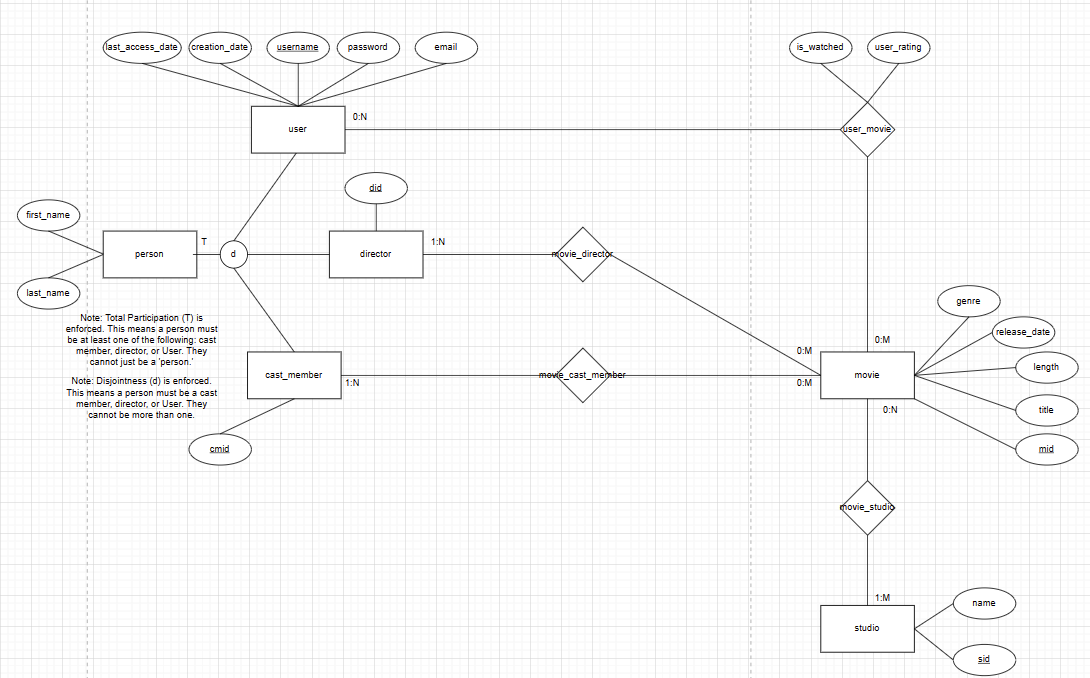
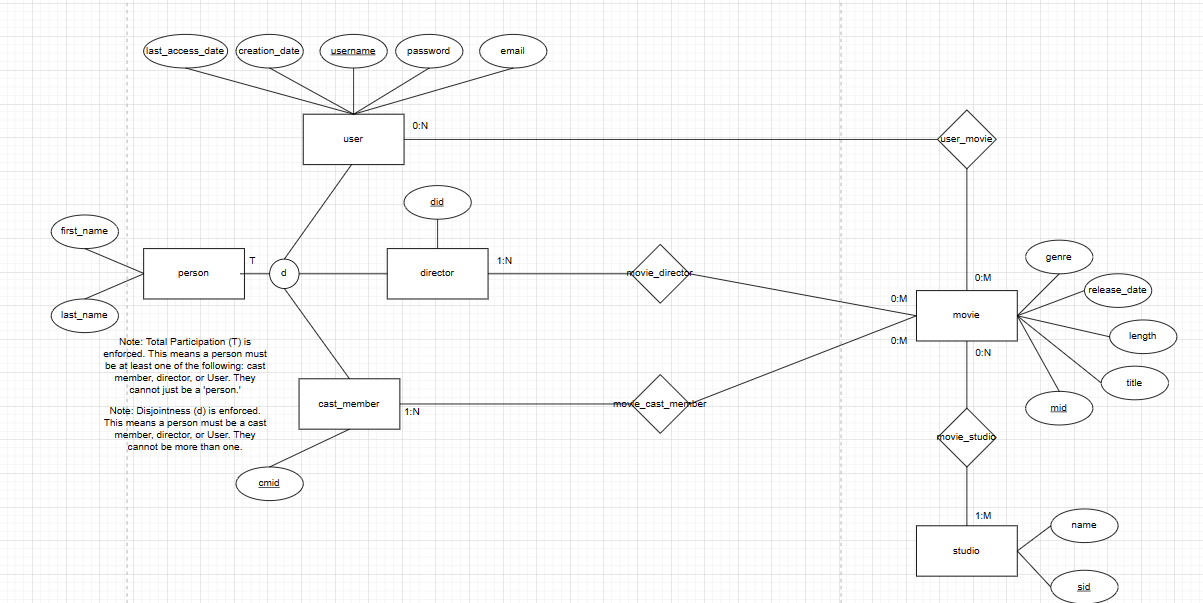
Added new EER and n to m between user and movie.

diff --git a/springboot-backend/src/main/java/com/Movie/MovieModel.java b/springboot-backend/src/main/java/com/Movie/MovieModel.java
@@ -4,6 +4,7 @@ package com.Movie;
 import com.CastMember.CastMemberModel;
 import com.Director.DirectorModel;
 import com.Studio.StudioModel;
+import com.User.UserModel;
 
 import javax.persistence.*;
 import java.util.Date;
@@ -57,6 +58,15 @@ public class MovieModel {
             inverseJoinColumns = {@JoinColumn(name = "sid")}
     )
     private Set<StudioModel> studioModels = new HashSet<>();
+
+    //N:M with User
+    @ManyToMany(fetch = FetchType.LAZY, cascade = CascadeType.ALL)
+    @JoinTable(
+            name = "user_movie",
+            joinColumns = {@JoinColumn(name = "mid")},
+            inverseJoinColumns = {@JoinColumn(name = "username")}
+    )
+    private Set<UserModel> userModels = new HashSet<>();
 
     @Id //pk
     @GeneratedValue(strategy = GenerationType.IDENTITY)
@@ -142,5 +152,13 @@ public class MovieModel {
 
     public void setStudioModels(Set<StudioModel> studioModels) {
         this.studioModels = studioModels;
+    }
+
+    public Set<UserModel> getUserModels() {
+        return userModels;
+    }
+
+    public void setUserModels(Set<UserModel> userModels) {
+        this.userModels = userModels;
     }
 }

diff --git a/springboot-backend/src/main/java/com/User/UserModel.java b/springboot-backend/src/main/java/com/User/UserModel.java
@@ -1,8 +1,12 @@
 package com.User;
 
+import com.Movie.MovieModel;
+
 import javax.persistence.*;
 
 import java.util.Date;
+import java.util.HashSet;
+import java.util.Set;
 
 /**
  * @author Connor Hunter        connh321@gmail.com
@@ -27,6 +31,10 @@ public class UserModel {
         this.creationDate = creationDate;
         this.lastAccessDate = lastAccessDate;
     }
+
+    //N:M with Movie
+    @ManyToMany(fetch = FetchType.LAZY, cascade = CascadeType.ALL, mappedBy = "userModels")
+    private Set<MovieModel> movieModels = new HashSet<>();
 
     @Id //pk
     @Column(name = "username")
@@ -110,5 +118,13 @@ public class UserModel {
 
     public void setLastAccessDate(Date lastAccessDate) {
         this.lastAccessDate = lastAccessDate;
+    }
+
+    public Set<MovieModel> getMovieModels() {
+        return movieModels;
+    }
+
+    public void setMovieModels(Set<MovieModel> movieModels) {
+        this.movieModels = movieModels;
     }
 }
